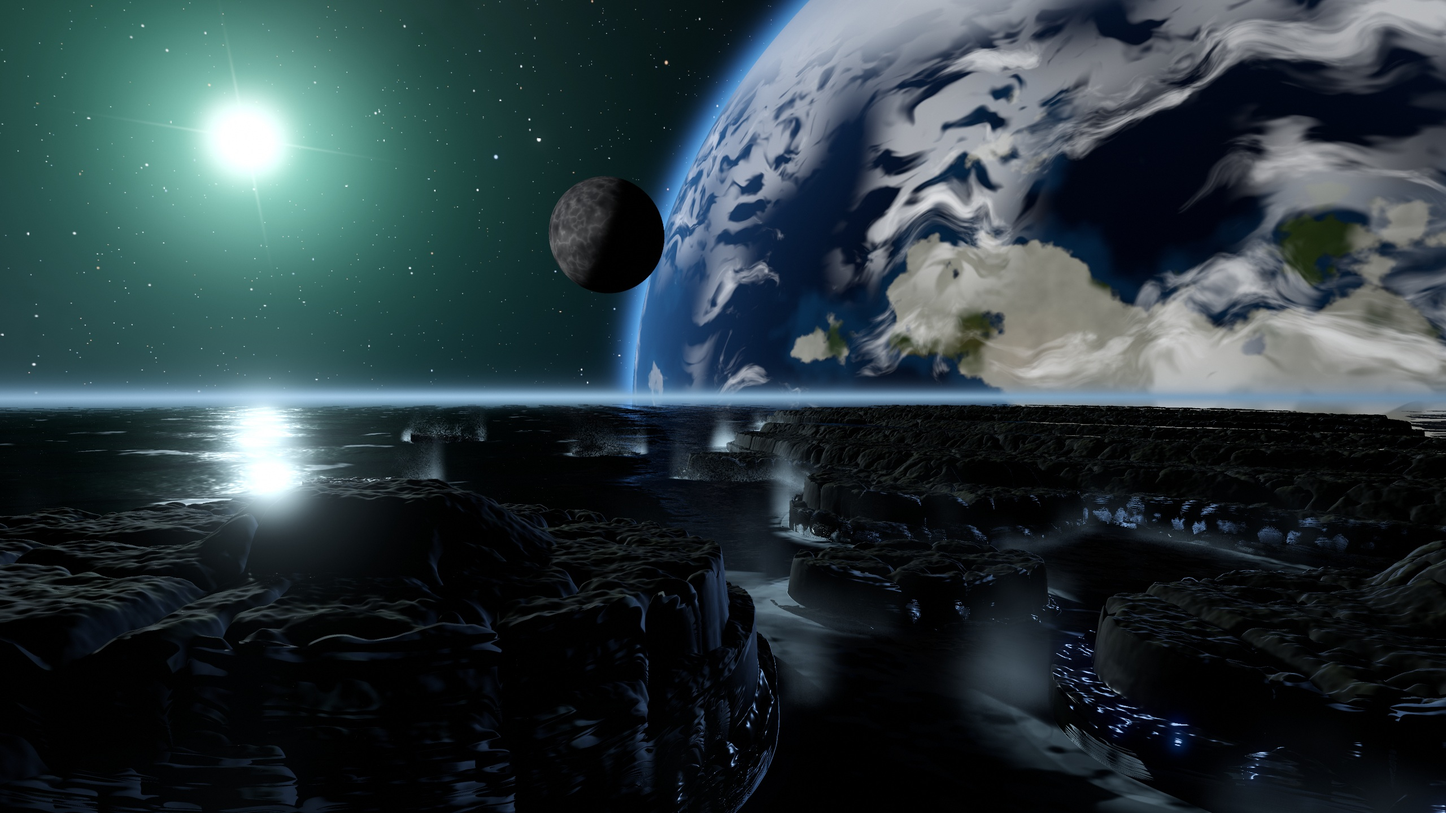
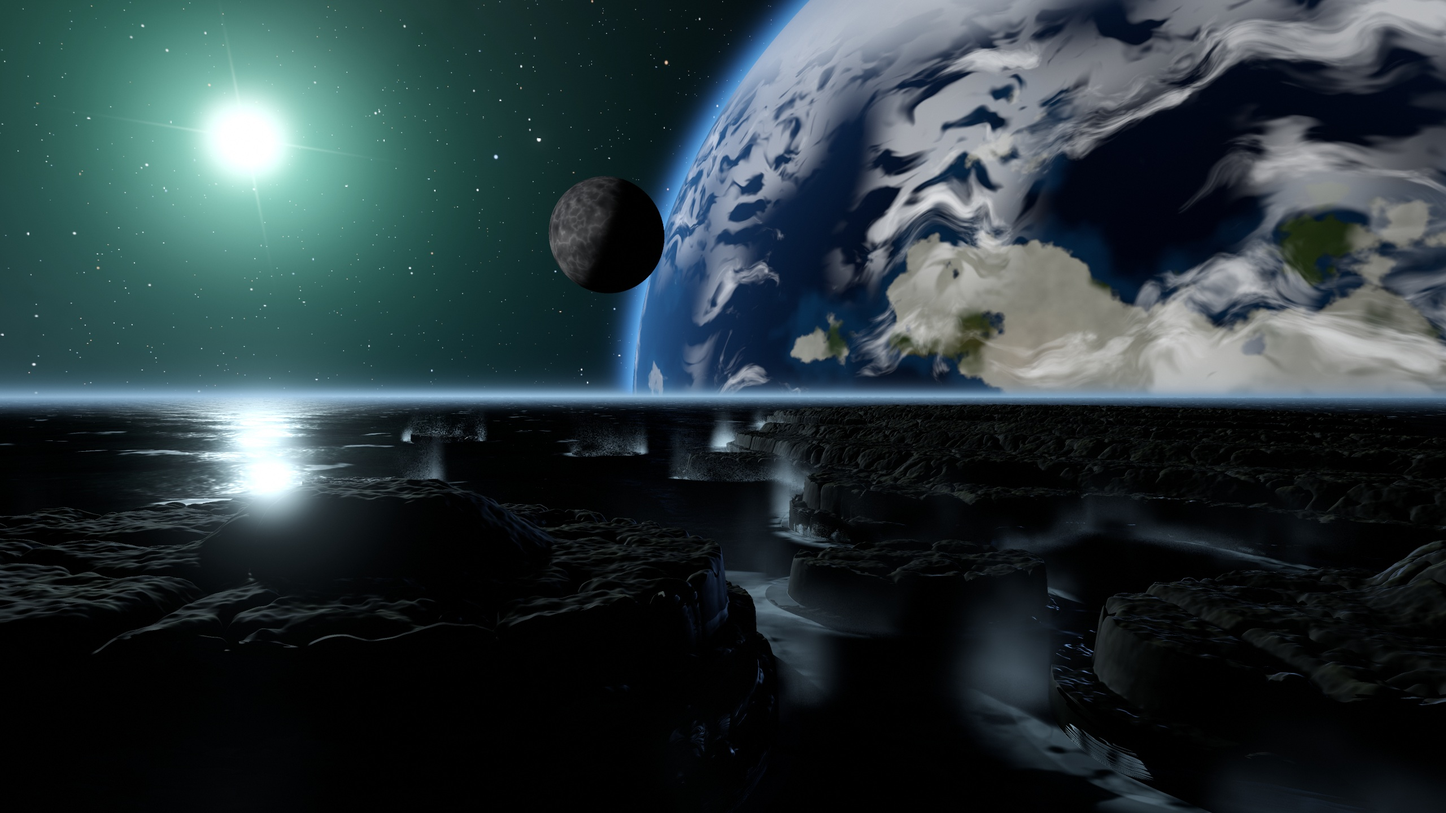
Espace background: the planet's light casts shadows (unshadowed, its glints lit the foot of the cliffs, broken by the ripples like the planet's clouds on the land); 900 march steps (grazing rays at the far right ran out and showed the planet among the rocks); damp rock, choppy water by the rocks and

diff --git a/app/tools/sprites/scenery.py b/app/tools/sprites/scenery.py
@@ -122,7 +122,7 @@ def _materials(scene, p, ids, nrm):
     return alb, met, rou, emi, sss, cc
 
 
-def _shade(scene, o, d, t, hit, sky, sun_dir, sun_col, sun_soft, lights, amb, ao_scale, tmax):
+def _shade(scene, o, d, t, hit, sky, sun_dir, sun_col, sun_soft, lights, amb, ao_scale, tmax, refl_occ=0.0):
     N = o.shape[0]
     col = sky(d)
     emis = torch.zeros(N, 3, device=DEV)
@@ -175,7 +175,10 @@ def _shade(scene, o, d, t, hit, sky, sun_dir, sun_col, sun_soft, lights, amb, ao
     R = norm(-V - 2 * ((-V * nrm).sum(-1, keepdim=True)) * nrm)
     ndv = (nrm * V).sum(-1).clamp(0, 1)
     fr = F0 + (1 - F0) * ((1 - ndv) ** 5)[:, None]
-    out = out + sky(R) * fr * ((1 - rou)[:, None] ** 2 * 0.8 + 0.1) * ao[:, None]
+    # the sky seen in the reflection; with refl_occ (a distance), hidden where the reflected ray meets the
+    # scenery within it (without it, the foot of a cliff can mirror a sky the cliff hides)
+    vis = _soft_shadow(scene, p, nrm, R, refl_occ, 0.3, steps=48)[:, None] if refl_occ > 0 else 1.0
+    out = out + sky(R) * fr * ((1 - rou)[:, None] ** 2 * 0.8 + 0.1) * ao[:, None] * vis
     up = (nrm[:, 1:2] * 0.5 + 0.5)
     out = out + dif_c * (amb[0] * up + amb[1] * (1 - up)) * ao[:, None]
     out = out + emi
@@ -186,13 +189,14 @@ def _shade(scene, o, d, t, hit, sky, sun_dir, sun_col, sun_soft, lights, amb, ao
 
 def render_view(scene, W, H, cam, sky, sun_dir=None, sun_col=None, sun_soft=0.06, lights=(), ambient=None,
                 fog=None, shafts=0.0, exposure=1.0, steps=220, tmax=80.0, ao_scale=0.08, bloom=0.8, dof=None, vignette=0.35,
-                grain=0.02, grade=None, tile=1 << 18, ss=1, atmo=None, aerial=None, volumes=(), vol_scale=0.5):
+                grain=0.02, grade=None, tile=1 << 18, ss=1, atmo=None, aerial=None, volumes=(), vol_scale=0.5, refl_occ=0.0):
     """fog: (density, colour, height falloff, base height). dof: (focus distance, strength).
     grade: (shadows tint, highlights tint) as hex. Returns uint8 (H, W, 3).
     atmo: an Atmosphere (then sky, sun_col and ambient default to its own);
     aerial: (density, height falloff, base height): the distance hazed into
     the colour of the air (atmo.haze); volumes: Volume list, marched at
-    vol_scale of the resolution."""
+    vol_scale of the resolution. refl_occ: how far the reflections look for the
+    scenery hiding the sky (0: not at all)."""
     if atmo is not None:
         sky = sky or atmo.sky
         sun_col = atmo.sun_col if sun_col is None else sun_col
@@ -213,7 +217,7 @@ def render_view(scene, W, H, cam, sky, sun_dir=None, sun_col=None, sun_soft=0.06
         sl = slice(s0, min(M, s0 + tile))
         o, d = cam.rays(Ws, Hs, js[sl], is_[sl])
         t, hit = _march(scene, o, d, tmax, steps, pix)
-        c, em = _shade(scene, o, d, t, hit, sky, sun_dir, sun_col, sun_soft, lights, amb, ao_scale, tmax)
+        c, em = _shade(scene, o, d, t, hit, sky, sun_dir, sun_col, sun_soft, lights, amb, ao_scale, tmax, refl_occ)
         tt = torch.where(hit, t, torch.full_like(t, tmax))
         if fog is not None:
             dens, fcol, fall, y0 = fog

diff --git a/app/tools/sprites/space_scene.py b/app/tools/sprites/space_scene.py
@@ -251,7 +251,7 @@ def rock_mat():
         a = a * (1 - 0.45 * wet)[:, None]
         algae = sstep(0.8, -0.2, y) * sstep(0.45, 0.6, fbm(pw * 2.0, 3))
         a = torch.lerp(a, srgb("#1e2a1a"), (0.6 * algae)[:, None])
-        rough = 0.85 - 0.6 * wet
+        rough = 0.85 - 0.3 * wet                                            # damp, not a mirror (it showed the planet's clouds)
         return {"albedo": a, "rough": rough}
     return Mat("#3a3632", rough=0.85, pattern=pat)
 
@@ -284,7 +284,15 @@ def sea_mat():
         foam = (0.9 * surf + 0.7 * lace + 0.7 * crest).clamp(0, 1)
         a = torch.lerp(srgb("#020a12"), srgb("#08252e"), near[:, None])
         a = torch.lerp(a, srgb("#b4c0c8"), foam[:, None])
-        rough = 0.16 + 0.75 * foam
+        far = sstep(120.0, 400.0, torch.sqrt((x - CAM_POS[0]) ** 2 + (z - CAM_POS[2]) ** 2))
+        # the choppy water by the rocks and far off blurs its reflection (sharp, the planet's glints
+        # on it looked like the planet's clouds on the land)
+        rough = (0.16 + 0.45 * near + 0.3 * far + 0.75 * foam).clamp_max(0.95)
+        # the pools caught in the cracks of the rock shelves: dark and still, no mirror (they showed the planet's
+        # clouds, broken by the ripples, on the land)
+        pool = sstep(-0.6, -0.1, h)
+        a = a * (1 - 0.6 * pool)[:, None]
+        rough = torch.maximum(rough, 0.75 * pool)
         return {"albedo": a, "rough": rough}
     return Mat("#04101a", rough=0.16, pattern=pat)
 
@@ -319,8 +327,8 @@ def render(W=2560, H=1440, ss=1):
     vols = [Volume(spray_density, (-60, -1, -160), (40, 6, -8), albedo="#dfe6ec", g=0.4, steps=40, light_steps=0),
             Volume(mist_density, (-1500, -1, -3000), (1500, 30, -100), albedo="#9ab0c8", g=0.3, steps=24, light_steps=0)]
     img = render_view(scene(), W, H, cam, sky, sun_dir=sd, sun_col=srgb("#d8f4ff") * 0.8, sun_soft=0.04,
-                      lights=[(far_planet, "#5a7aa8", -1e9)],
-                      ambient=("#2a3a55", "#0c1018"), exposure=1.35, steps=300, tmax=3000, ao_scale=0.6, bloom=1.0,
+                      lights=[(far_planet, "#5a7aa8", 1e9)],             # with shadows (without, its glints lit the foot of the cliffs)
+                      ambient=("#2a3a55", "#0c1018"), exposure=1.35, steps=900, tmax=3000, refl_occ=40.0, ao_scale=0.6, bloom=1.0,
                       vignette=0.3, grain=0.01, grade=("#0e1a2a", "#f0fff8"), ss=ss,
                       volumes=[] if NOVOL else vols, vol_scale=0.5)
     return img
